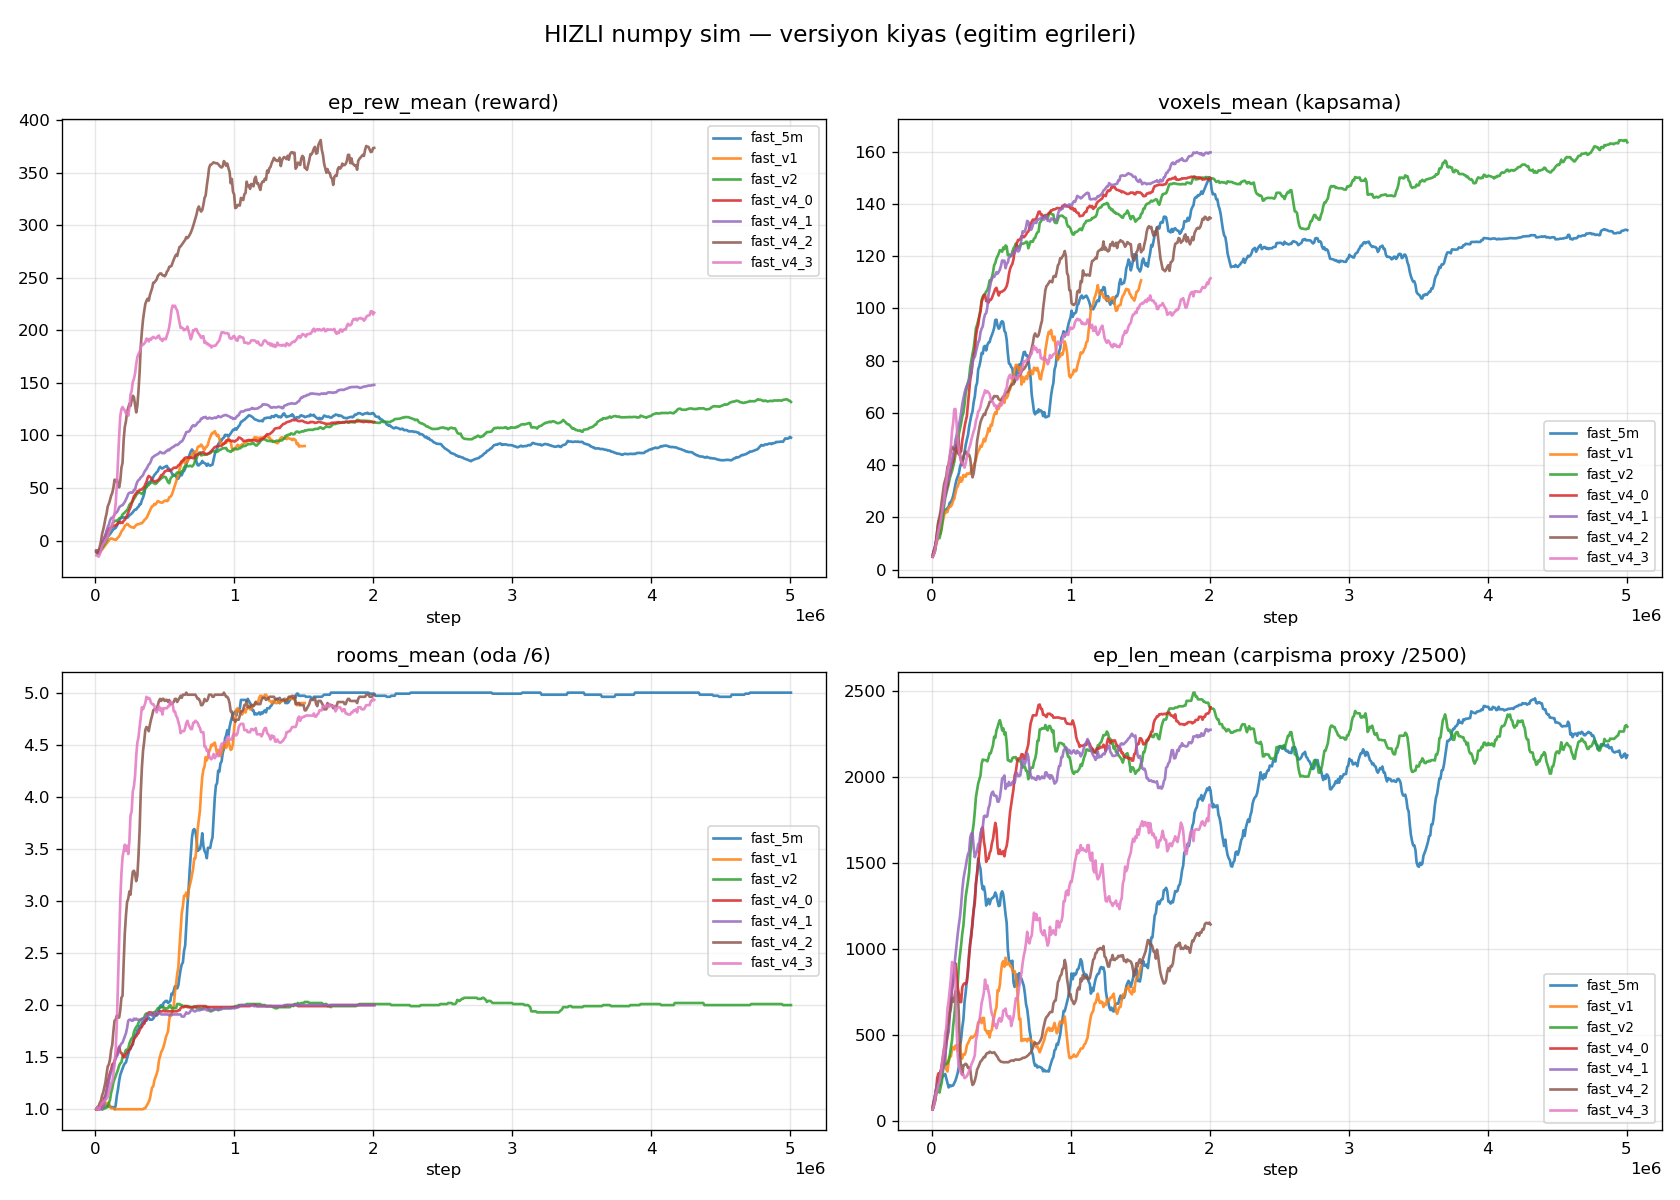
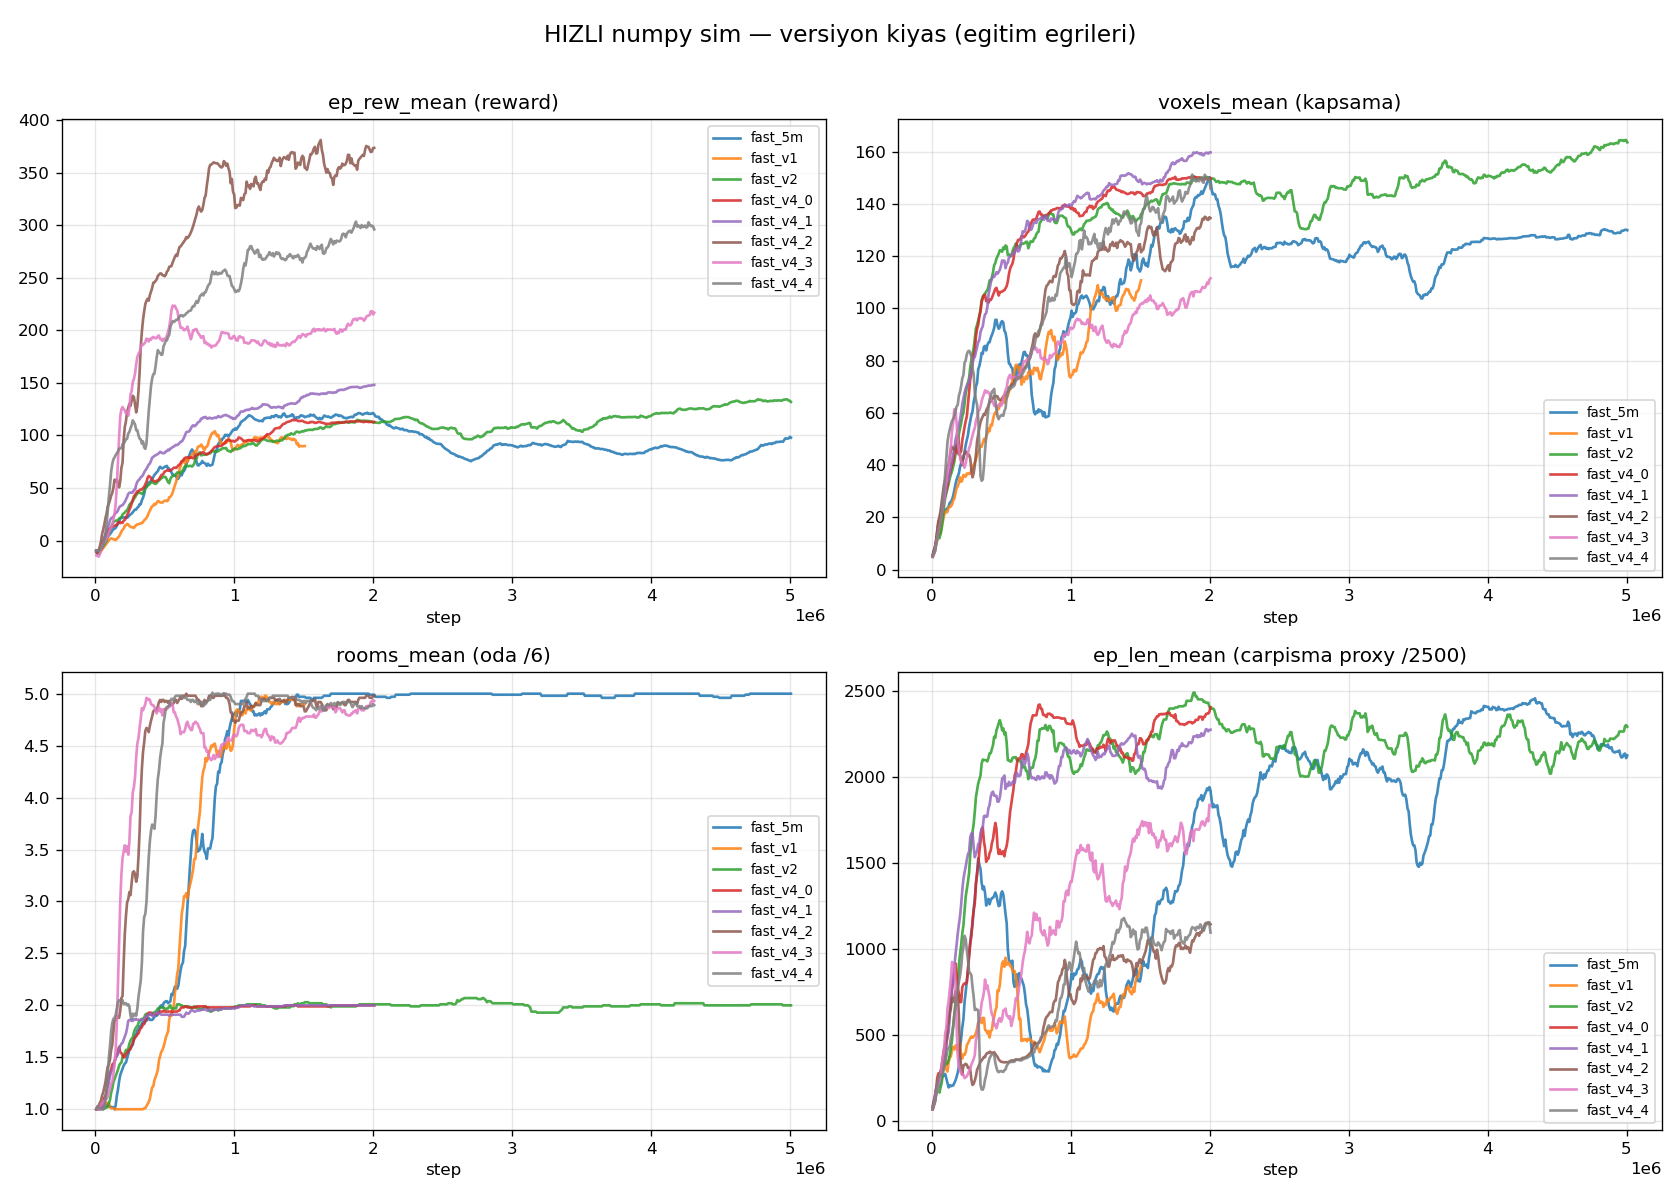
v4.4 eval (EN IYI KESIF: 167 voxel, 5 oda, %26.7 kapsama AMA %97 carpisma) -> v4.5 (collision 30)

diff --git a/docs/EVAL_fast_v4_4.md b/docs/EVAL_fast_v4_4.md
@@ -1,0 +1,16 @@
+# fast_v4_4 (numpy/Gymnasium sim) — 100 episode
+
+Model: `fast_drone_final.zip` | deterministic | hareketli engeller aktif | ~100x hizli sim
+
+| Metrik | Deger |
+|---|---|
+| Return | 137.7 ± 33.1 (min 36, max 171) |
+| Voxel / 1024 | 167.1 ± 28.0 (min 34, max 216) |
+| Oda / 6 | 4.9 ± 0.3 (min 3, max 5) |
+| Episode / 2500 | 1303.7 ± 454.8 (min 137, max 2500) |
+| Carpisma orani | 97% (97/100) |
+| Birlesik kapsama | 273/1024 (27%) |
+
+![coverage](figures/eval_fast_v4_4_coverage.png)
+
+![traj](figures/eval_fast_v4_4_trajectories.png)
